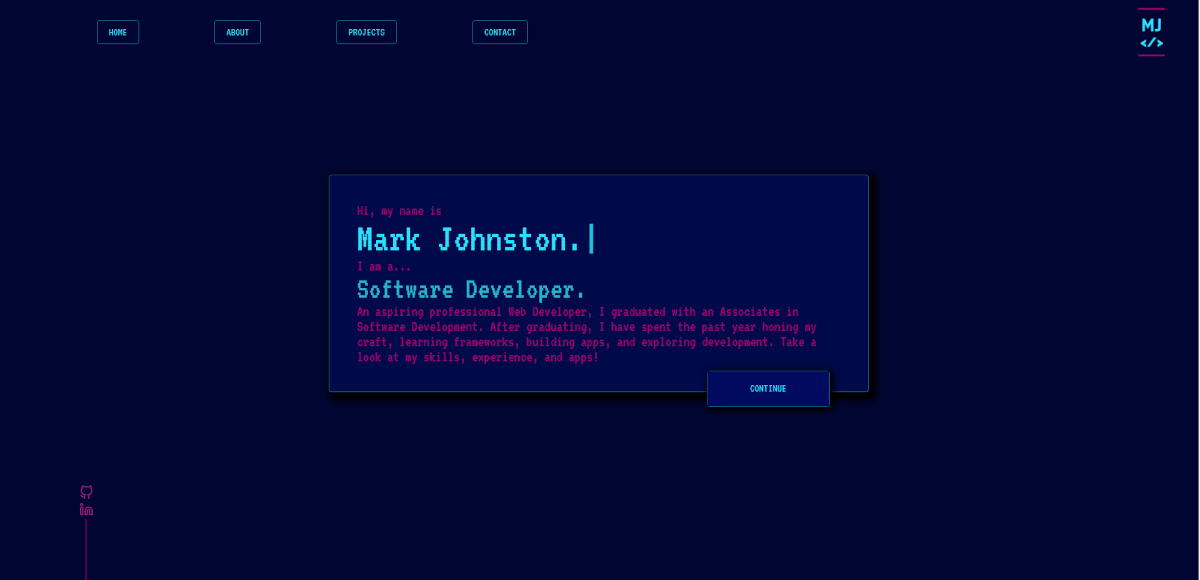
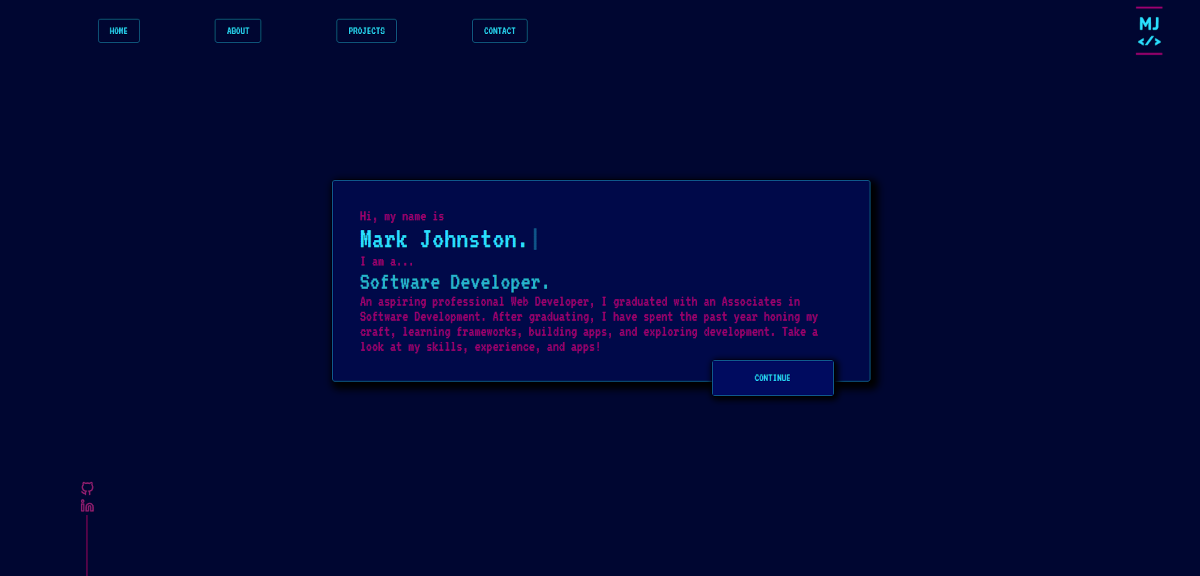
adding second overlay for contacting me

diff --git a/src/App.js b/src/App.js
@@ -131,6 +131,54 @@ function App() {
                 </a>
               </li>
             </ul>
+            <ul className="right_overlayList">
+              <li>
+                <a
+                  aria-label="Github"
+                  href="https://github.com/MJStone587"
+                  target="_blank"
+                  rel="noreferrer"
+                >
+                  <svg
+                    xmlns="http://www.w3.org/2000/svg"
+                    role="img"
+                    viewBox="0 0 24 24"
+                    fill="none"
+                    stroke="currentColor"
+                    strokeWidth="2"
+                    className="overlay overlay-github"
+                  >
+                    <title>GitHub</title>
+                    <path d="M9 19c-5 1.5-5-2.5-7-3m14 6v-3.87a3.37 3.37 0 0 0-.94-2.61c3.14-.35 6.44-1.54 6.44-7A5.44 5.44 0 0 0 20 4.77 5.07 5.07 0 0 0 19.91 1S18.73.65 16 2.48a13.38 13.38 0 0 0-7 0C6.27.65 5.09 1 5.09 1A5.07 5.07 0 0 0 5 4.77a5.44 5.44 0 0 0-1.5 3.78c0 5.42 3.3 6.61 6.44 7A3.37 3.37 0 0 0 9 18.13V22"></path>
+                  </svg>
+                </a>
+              </li>
+              <li>
+                <a
+                  aria-label="Linkedin  "
+                  href="https://linkedin.com/in/MJStone587"
+                  target="_blank"
+                  rel="noreferrer"
+                >
+                  <svg
+                    xmlns="http://www.w3.org/2000/svg"
+                    role="img"
+                    viewBox="0 0 24 24"
+                    fill="none"
+                    stroke="currentColor"
+                    strokeWidth="2"
+                    inecap="round"
+                    strokeLinejoin="round"
+                    className="overlay overlay-github"
+                  >
+                    <title>LinkedIn</title>
+                    <path d="M16 8a6 6 0 0 1 6 6v7h-4v-7a2 2 0 0 0-2-2 2 2 0 0 0-2 2v7h-4v-7a6 6 0 0 1 6-6z"></path>
+                    <rect x="2" y="9" width="4" height="12"></rect>
+                    <circle cx="4" cy="4" r="2"></circle>
+                  </svg>
+                </a>
+              </li>
+            </ul>
           </div>
           <main className="desktopContent">
             <Home ref={homeRef} />

diff --git a/src/style.css b/src/style.css
@@ -37,18 +37,19 @@ section {
   justify-content: flex-end;
   align-items: flex-end;
   z-index: 12;
-  bottom: 0;
-  left: 5%;
-  width: 3rem;
+  width: 100%;
 }
 .desktopOverlay_container li {
   color: #2adfff;
 }
 .left_overlayList {
+  position: fixed;
   display: flex;
   flex-flow: column nowrap;
   justify-content: center;
   align-items: center;
+  left: 5%;
+  bottom: 0;
 }
 .left_overlayList::after {
   content: "";
@@ -56,7 +57,21 @@ section {
   height: 99px;
   background-color: var(--pinkFadedFont-color);
 }
-
+.right_overlayList {
+  position: fixed;
+  display: flex;
+  flex-flow: column nowrap;
+  justify-content: flex-end;
+  align-items: center;
+  right: 5%;
+  bottom: 0;
+}
+.right_overlayList::after {
+  content: "";
+  width: 1px;
+  height: 99px;
+  background-color: var(--pinkFadedFont-color);
+}
 .overlay-github {
   color: #961f74;
 }
